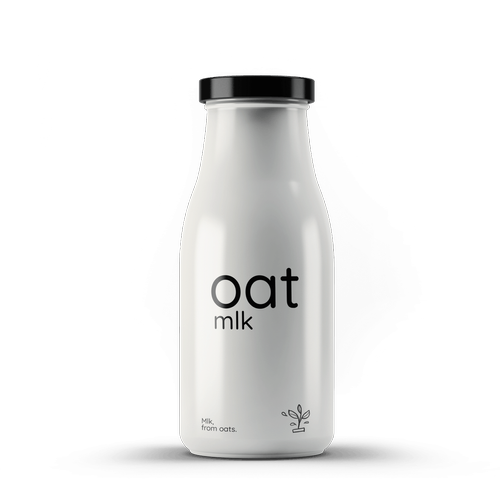
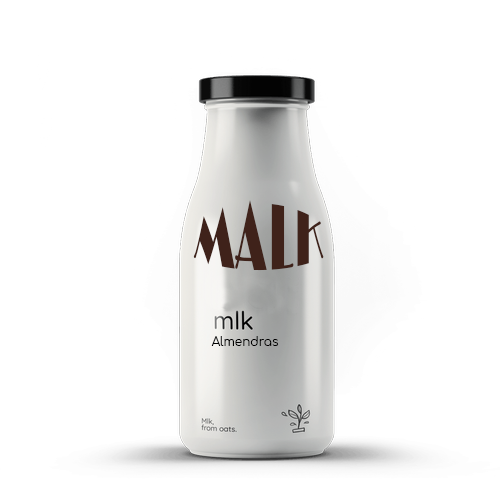
mostrar productos funcionando

Changed region(s): [[0.39, 0.39, 0.66, 0.63], [0.42, 0.66, 0.57, 0.69]]

diff --git a/index.html b/index.html
@@ -195,10 +195,10 @@
   </section>
 
 
-  <section class="productos">
+  <section class="productos container">
     <h3>Nuestros productos</h3>
     <ul class="row">
-      <li class="col-12">
+      <li class="col-12" id="original">
         <div class="card">
           <picture>
             <source media="(min-width: 890px)" srcset="">
@@ -206,26 +206,71 @@
             <img class="card-img-top" src="img/bottle.png" alt="">
           </picture>
           <div class="card-body">
-            <h3>Almendras original.</h3>
+            <h4>Malk original.</h4>
             <p class="card-text">Cremosa y deliciosa hecha 100% con almendras
-              orgánicas. Sin agregados de azúcar. Perfecta para todos los días</p>
+              orgánicas. Perfecta para todos los días</p>
+            <p>Ideal para cocinar como sustituto de la leche de vaca en tus recetas</p>
+
+          </div>
+        </div>
+      </li>
+
+      <li class="col-12" id="zero">
+        <div  class="card">
+          <picture>
+            <source media="(min-width: 890px)" srcset="">
+            <source media="(min-width: 480px)" srcset="">
+            <img class="card-img-top" src="img/bottlealm2.png" alt="">
+          </picture>
+          <div class="card-body">
+            <h4>Malk sin azucares.</h4>
+            <p class="card-text">Tiene sólo 28 calorías por porción y al ser de origen vegetal no tiene lactosa ni
+              colesterol. Ideal para quienes eligen alimentarse mejor y con muy bajas calorías.</p>
             <p>Ingredientes: almendras
               orgánicas, agua.</p>
           </div>
         </div>
       </li>
 
-      <li>
-
+      <li class="col-12" id="avena">
+        <div class="card">
+          <picture>
+            <source media="(min-width: 890px)" srcset="">
+            <source media="(min-width: 480px)" srcset="">
+            <img class="card-img-top" src="img/bottleavena.png" alt="">
+          </picture>
+          <div class="card-body">
+            <h4>Malk Avena.</h4>
+            <p class="card-text">Rica y saludable como la de almendras, pero además es fuente de fibra. No tiene azúcar
+              y tiene sólo 48 calorías por porción. Ideal para quienes eligen alimentarse mejor y con más sabor.</p>
+            <p>Ingredientes: avena
+              orgánica, agua.</p>
+          </div>
+        </div>
       </li>
 
-      <li>
-
+      <li class="col-12" id="castania">
+        <div class="card">
+          <picture>
+            <source media="(min-width: 890px)" srcset="">
+            <source media="(min-width: 480px)" srcset="">
+            <img class="card-img-top" src="img/bottlecastanias.png" alt="">
+          </picture>
+          <div class="card-body">
+            <h4>Malk castañas.</h4>
+            <p class="card-text">La bebida vegetal de castañas es rica en carbohidratos, fósforo, calcio, magnesio,
+              potasio y vitaminas del grupo B.</p>
+            <p>Ingredientes: Agua, castañas de Cajú orgánicas, sal, carbonato de calcio</p>
+          </div>
+        </div>
       </li>
+    </ul>
 
-      <li>
-
-      </li>
+    <ul class="dots">
+      <li class="dot"><a href="#original"> Malk original </a></li>
+      <li class="dot"><a href="#zero">Malk sin azucares</a></li>
+      <li class="dot"><a href="#avena">Malk avena</a></li>
+      <li class="dot"><a href="#castania">Malk castañas</a></li>
     </ul>
   </section>
 

diff --git a/styles.css b/styles.css
@@ -1,4 +1,5 @@
 @import url('https://fonts.googleapis.com/css2?family=Chango&family=Comfortaa:wght@300;400;500;600;700&display=swap');
+
 * {
     box-sizing: border-box;
     padding: 0;
@@ -33,11 +34,34 @@ h2, h3 {
     text-align: center;
 }
 
+h4 {
+    font-weight: bolder;
+}
+
 p {
     text-align: center;
 }
 
-/**************************************************************** BANNER *******************************************************************/
+.dot {
+    height: 20px;
+    width: 20px;
+    background-color: #d8a586;
+    border-radius: 50%;
+    display: inline-block;
+    margin-bottom: 2em;
+}
+
+.dot a {
+    font-size: 1px;
+    color: transparent;
+}
+
+.dots {
+    list-style: none;
+    text-align: center;
+}
+
+/******************** BANNER ********************/
 
 .carousel-item :first-child {
     position: absolute;
@@ -72,7 +96,7 @@ p {
     margin-top: 20px;
 }
 
-/**************************************************************** BENEFICIOS *******************************************************************/
+/******************** BENEFICIOS ********************/
 
 .beneficios div {
     padding: 20px;
@@ -89,7 +113,7 @@ p {
     padding: 1em;
 }
 
-/**************************************************************** SOBRE NOS *******************************************************************/
+/******************** SOBRE NOS ********************/
 
 
 #sobrenos h3 {
@@ -103,23 +127,7 @@ p {
     text-align: center;
 }
 
-/**************************************************************** PRODUCTOS *******************************************************************/
-.productos {
-    font-size: .9em;
-}
-
-.productos li {
-    list-style: none;
-    text-align: center;
-}
-
-.card {
-    margin: 20px;
-    background-color: #cbdee5;
-    border-radius: 1em;
-}
-
-/* PASTILLAS BENEFICIOS */
+/******************** PASTILLAS BENEFICIO ********************/
 
 #pastisbenef {
     position: relative;
@@ -182,21 +190,38 @@ p {
     display: inline-block;
 }
 
-.dot {
-    height: 20px;
-    width: 20px;
-    background-color: #d8a586;
-    border-radius: 50%;
-    display: inline-block;
-    margin-bottom: 2em;
+/******************** PRODUCTOS ********************/
+.productos {
+    font-size: .9em;
+    position: relative;
 }
 
-.dot a {
-    font-size: 1px;
-    color: transparent;
-}
-
-.dots {
+.productos li {
     list-style: none;
     text-align: center;
 }
+
+.card {
+    top: 0;
+    margin: 20px;
+    border-radius: 1em;
+    border: 0;
+    background-color: #cbdee5;
+}
+
+#original {
+    position: relative;
+}
+
+#zero, #avena, #castania {
+    position: absolute;
+    display: none;
+    top: 30;
+}
+
+.productos ul li:target {
+    display: inline-block !important;
+}
+
+
+/******************** PRODUCTOS ********************/
